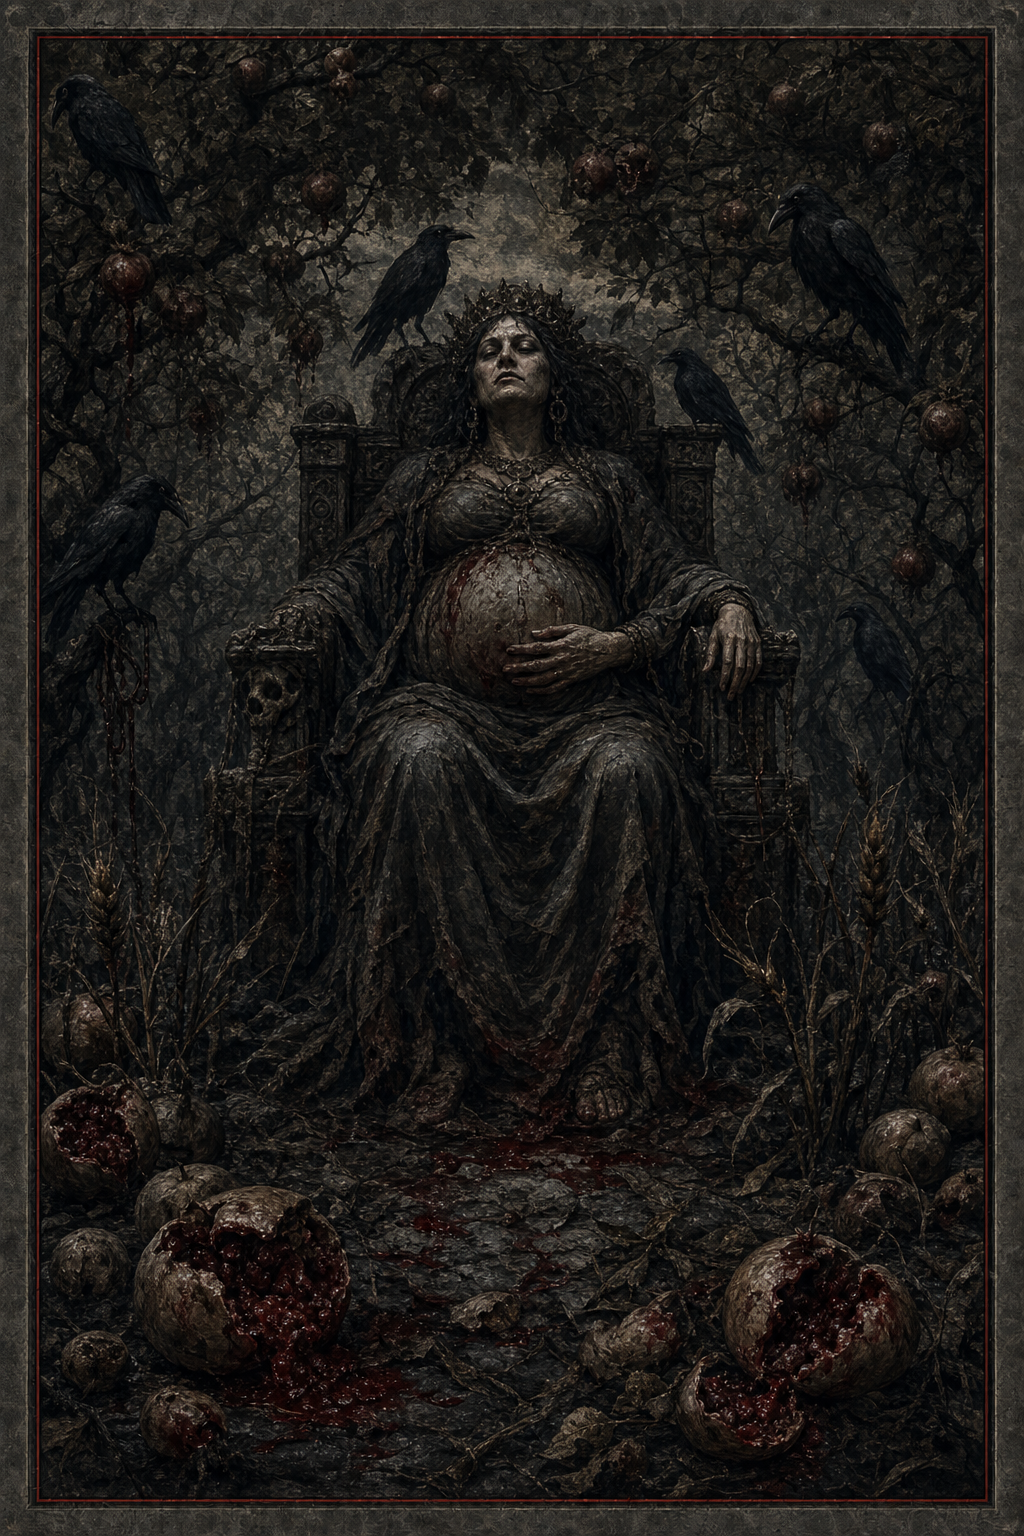
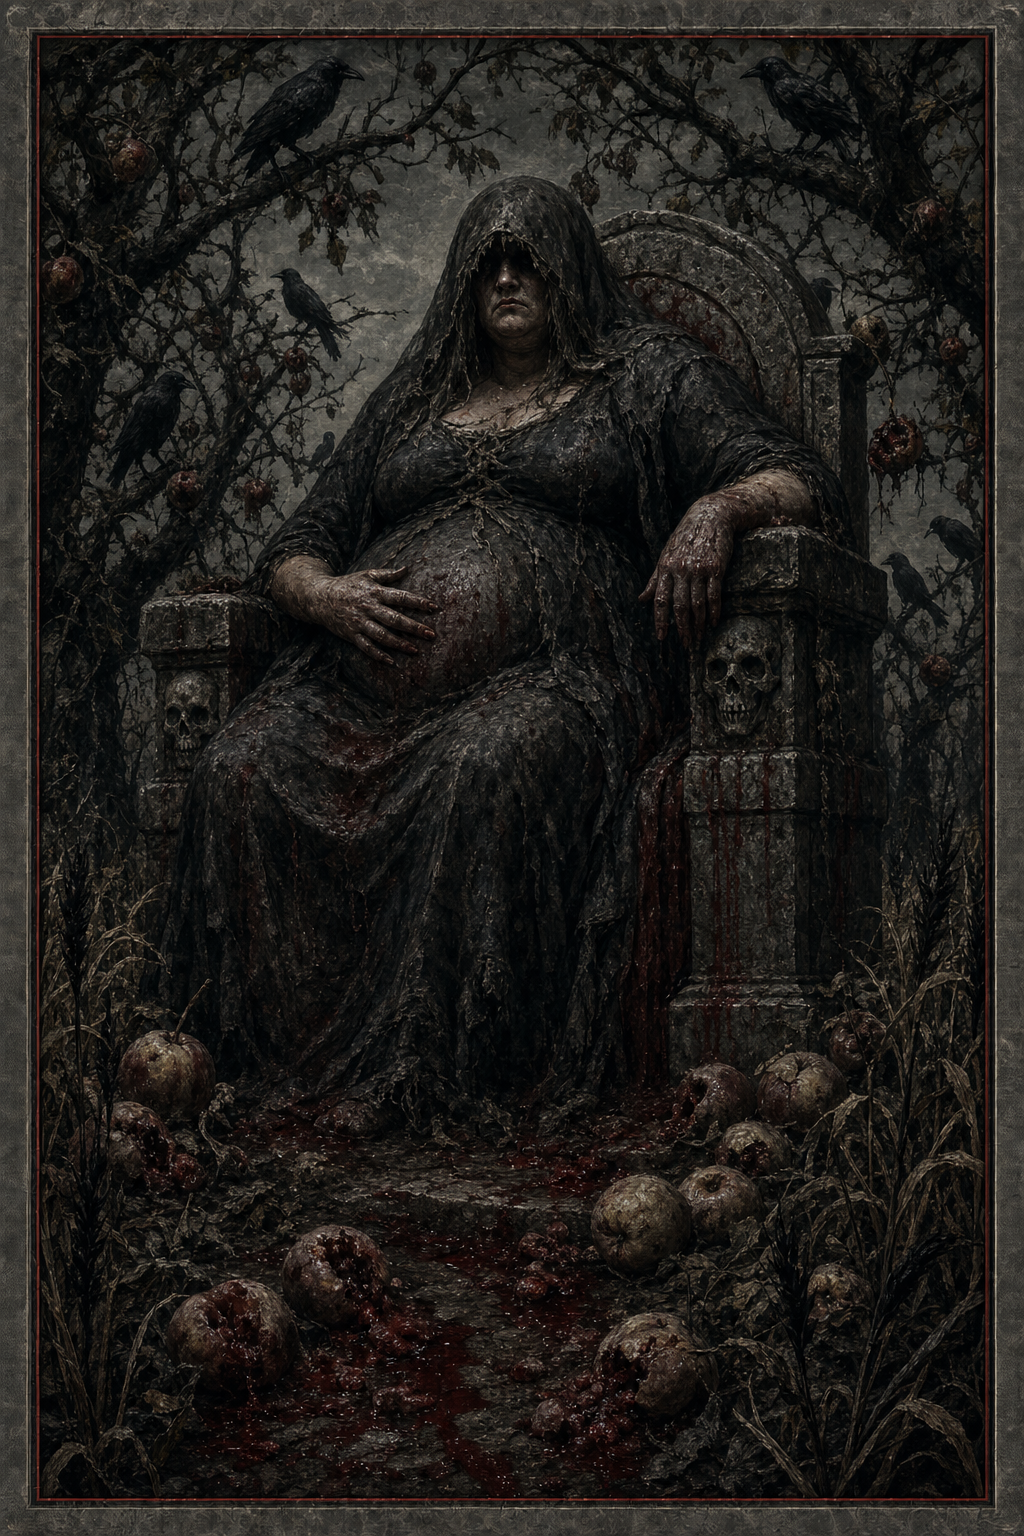
Take the gold ring off the cards, and give The Empress her right arm back
TWO THINGS THE ART MADE TRUE THAT THE CHROME HAD NOT CAUGHT UP WITH.

1. `--card-face-border` WAS FULL-STRENGTH GOLD, #c9a227, AND IT WAS A SECOND
   BORDER. The regenerated deck paints its own frame -- tarnished pewter, ~4% of
   the card's width, 22-25% luminance against a canvas at ~4% -- so the card
   defines its own edge and the gold ring sat on top of it. On the darkest cards
   (The Moon, The Hanged Man) it was the brightest thing on screen: the art losing
   to the UI.

   Replaced with `--card-edge: rgba(198,188,170,0.17)`, keyed to the artwork's own
   pewter rather than to gold. Removing it outright very nearly won and was
   rejected for one measured reason: without any border the rounded corners of the
   two darkest cards dissolve into the page. Six variants were rendered side by
   side at 90px before choosing -- two gold opacities, nothing, nothing plus a
   heavier shadow, an ambient warm halo, and this.

   AND THE SHADOW IDEA DOES NOT WORK, WHICH IS WORTH KNOWING BEFORE SOMEONE TRIES
   IT AGAIN. A black shadow on a #0a0812 canvas is very nearly invisible;
   doubling it was indistinguishable from having none. So the shadow was never
   what separated a card from the page and a 48px spread was paying for reach it
   never delivered. Tightened to 0 8px 24px, which reads only on the bright cards
   where there is luminance to subtract from.

   THE BETTER HALF OF THIS WAS A SIDE EFFECT. `Slots.module.css` keeps its gold
[…]

diff --git a/src/components/CardFace.module.css b/src/components/CardFace.module.css
@@ -14,14 +14,35 @@
   position: absolute;
   inset: 0;
   border-radius: var(--radius-card);
-  border: 1px solid var(--card-face-border);
+  /*
+   * A near-invisible seam, NOT the gold ring this used to be. The artwork paints
+   * its own frame now (tarnished pewter, ~4% of the card's width, at 22-25%
+   * luminance against a canvas at ~4%), so the card defines its own edge and the
+   * old `--card-face-border: #c9a227` was a second border on top of the first --
+   * on the darkest cards it was the brightest thing on screen.
+   *
+   * Removing it outright was the other candidate and it very nearly won. This
+   * keeps 1px because The Moon and The Hanged Man lose their rounded corners into
+   * the page without it. Compared against no border, a heavier shadow, a warm
+   * halo and two gold opacities before choosing; see tokens.ts.
+   */
+  border: 1px solid var(--card-edge);
   /* Was here to hide the padding bars on cards whose trimmed art was narrower
      than 2:3 -- 44px per side on the old cards 0-10. The regenerated deck is
      full-bleed and has none, and check_card_art.py fails a card that does, but
      this stays as the backstop for the one-pixel rounding case. It costs
      nothing. */
   background: #0f0b1c;
-  box-shadow: 0 22px 48px rgba(0, 0, 0, 0.6);
+  /*
+   * Tightened from `0 22px 48px rgba(0,0,0,.6)`. MEASURED, not tidied: a black
+   * shadow on a `--canvas` of #0a0812 is very nearly invisible, and doubling it
+   * was indistinguishable from having none at all in a side-by-side. So it cannot
+   * be what separates a card from the page -- the artwork's own frame is -- and a
+   * 48px spread was paying for reach it never delivered. What is left reads only
+   * on the brighter cards (The Sun, The Hermit), which is where there is any
+   * luminance for it to subtract from.
+   */
+  box-shadow: 0 8px 24px rgba(0, 0, 0, 0.8);
   overflow: hidden;
   backface-visibility: hidden;
 

diff --git a/src/theme/tokens.ts b/src/theme/tokens.ts
@@ -26,7 +26,29 @@ export const color = {
   cardBack: ['#1d1636', '#291f4a', '#17112b'] as const,
   cardBackBorder: '#4a3d72',
   cardFace: ['#fbf4e2', '#f1e6cb'] as const,
-  cardFaceBorder: '#c9a227',
+
+  /**
+   * The edge of a face-up card. REPLACES `cardFaceBorder: '#c9a227'`, which was
+   * full-strength gold.
+   *
+   * That gold was the only thing separating a card from the near-black canvas
+   * back when the artwork was three inconsistent generations. The regenerated
+   * deck carries its own painted frame at 22-25% luminance against a canvas at
+   * ~4%, so the card defines its own edge and a gold ring on top of it was a
+   * SECOND border competing with the first -- on the darkest cards it became the
+   * brightest thing in the cell, which is the art losing to the chrome.
+   *
+   * Keyed to the artwork's pewter rather than to gold, and at an opacity that
+   * reads as the outermost millimetre of the painting instead of as app chrome.
+   * Its whole job is keeping the rounded corners crisp on The Moon and The Hanged
+   * Man, which go soft with no border at all.
+   *
+   * GOLD NOW MEANS EXACTLY ONE THING ON THE DRAW SCREEN: "a card goes here."
+   * `Slots.module.css` keeps `--gold-hairline` on the EMPTY box, so the empty and
+   * filled states stopped sharing a signal. That was a side effect of an
+   * aesthetic fix and it is the better half of it.
+   */
+  cardEdge: 'rgba(198,188,170,0.17)',
 
   /** Translucent golds, used for hairlines, chips and button fills. */
   goldHairline: 'rgba(201,162,39,0.22)',

diff --git a/src/data/deck.ts b/src/data/deck.ts
@@ -21,8 +21,11 @@ export const CARDS = raw as Card[];
  * v1 -> v2: the deck regenerated by `/generate-tarot-card`. Full bleed (the old
  * cards 0-10 lost 11% of their width to black bars), one consistent frame
  * treatment, and NO TEXT -- `CardFace` draws the name now.
+ * v2 -> v3: The Empress redrawn. She had two arms on her left and none on her
+ * right. ONE CARD CHANGING IS ENOUGH TO BUMP THIS -- the filename did not change,
+ * so without it every existing install keeps the three-armed one for a year.
  */
-const ART_VERSION = 2;
+const ART_VERSION = 3;
 
 /**
  * Full-size card art, 800x1200. For the result panel, where the card is large

diff --git a/src/theme/tokens.css b/src/theme/tokens.css
@@ -39,7 +39,11 @@
   --card-back-border: #4a3d72;
   --card-face-1: #fbf4e2;
   --card-face-2: #f1e6cb;
-  --card-face-border: #c9a227;
+  /* Mirrors `cardEdge` in tokens.ts, which carries the reasoning. Replaces
+     `--card-face-border: #c9a227` -- full gold, which competed with the frame the
+     regenerated artwork paints for itself. Gold on the draw screen now means only
+     "a card goes here" (the empty slot), never "a card is here". */
+  --card-edge: rgba(198, 188, 170, 0.17);
 
   /* --- Translucent golds: hairlines, chips, button fills ----------------- */
   --gold-hairline: rgba(201, 162, 39, 0.22);

diff --git a/.claude/skills/generate-tarot-card/style.md b/.claude/skills/generate-tarot-card/style.md
@@ -96,6 +96,27 @@ way at 90px, keep the vulnerability the cards are about, and generate. Do not
 "restore" the nudity: it does not fail loudly, it fails as a refused request and
 a card that never appears.
 
+**ACCOUNT FOR EVERY LIMB, BUT DESCRIBE A POSE -- NEVER COUNT BODY PARTS.** The
+Empress shipped with two arms on the same side: a hand on the armrest and a hand
+on the belly, both emerging from her left, her right arm absent entirely. The
+scene line said only `one hand on a swollen belly` and never accounted for the
+other, so the model put it wherever it liked. Anatomy is the most common way these
+images fail, and it is invisible at 90px -- it survived a review that checked text,
+composition and blood.
+
+THE FIRST FIX FOR IT WAS REFUSED TWICE, WHICH IS THE REAL LESSON. `her left
+forearm laid along the armrest and her right hand resting on a swollen belly --
+one arm to each side of her body, both shoulders visible` is anatomical
+enumeration, and next to a swollen belly and bleeding fruit the classifier reads
+it as body horror. A `--note` saying `no third arm, no duplicated hand` was
+refused for the same reason. Counting limbs, naming sides, and listing shoulders
+all trip it.
+
+What works is ordinary pose language: **`one forearm laid along the armrest, the
+other hand resting on a swollen belly`.** `one ... the other` fixes the placement
+and implies exactly two without ever enumerating anything. Same rule as the style
+block: say what the picture IS.
+
 **AND WATCH WHAT THE VERB ATTACHES TO.** The World read `a figure suspended
 inside a wreath ... the wreath bound at four points with red cord` and was
 refused: `suspended` plus `bound at four points` describes a person being
@@ -118,7 +139,7 @@ sixteen cards at v2, which is the mixed deck the version stamp exists to catch.
 - 00_fool: A barefoot youth mid-stride off a crumbling clifftop, arms loose, face turned up to the sky, not seeing the drop. Far below, a scree slope of bones with a thin red rill threading through it. A small pale dog howling at the lip behind him. Wide, vertiginous, looking down past him into the fall.
 - 01_magician: A gaunt figure at a stone slab in a windowless cellar, one arm raised, the other pointing at the floor. On the slab: a knife, a chipped cup brimming dark red, a bent coin, a snapped staff. Blood tracks along a channel cut into the stone and drips off the near edge. Close, cramped, single guttering light.
 - 02_high_priestess: A veiled seated figure between two black pillars at the mouth of a flooded crypt, water to her ankles, a crescent at her feet. Dark red spreads from beneath her hem across the still surface in slow threads. Frontal, symmetrical, drowned and silent.
-- 03_empress: A heavy enthroned woman in a rotting orchard, one hand on a swollen belly. Overripe fruit split open on the ground bleeding pulp, wheat blackened at the tips, crows crowding the branches. Tight, oppressive, low green-grey light with the canopy pressing down.
+- 03_empress: A heavy woman seated on a stone throne in a rotting orchard, one forearm laid along the armrest, the other hand resting on a swollen belly. Overripe fruit split open on the ground bleeding pulp, wheat blackened at the tips, crows crowding the branches. Tight, oppressive, low green-grey light with the canopy pressing down.
 - 04_emperor: A mailed ruler on a throne built from interlocked blades and rib bones, ram skulls at the arms. Seen steeply from below so he fills the frame. A dark stain worked deep into the stone step at his feet. Monumental, frontal, grey daylight from high behind.
 - 05_hierophant: A masked celebrant high on a pulpit in a vast stone nave, hands raised over a basin of dark red. Two tonsured acolytes kneel far below him in a shallow spreading pool. Extreme vertical, cavernous, ranks of candles receding into dark.
 - 06_lovers: Two figures in thin pale shifts standing back to back, wrists bound behind them with red cord drawn tight. A vast winged shape above, its face lost in shadow. A serpent at the woman's ankle. Nocturnal garden gone entirely to thorn. Mid-shot, cold moonlight.

diff --git a/.claude/skills/generate-tarot-card/SKILL.md b/.claude/skills/generate-tarot-card/SKILL.md
@@ -65,6 +65,15 @@ one mountain-and-lake backdrop, and no number above detects that. Judge:
   drip, rill. A wound is both off-brief and the thing that gets refused.
 - **Is it grave, or is it lurid?** Unflinching about a cruel world is the deck.
   Enjoying it is not, and this app has a self-harm crisis path one screen away.
+- **COUNT THE LIMBS.** Arms, hands, fingers, legs, and the same for any animal.
+  Trace each arm from shoulder to hand and check it belongs to the side it came
+  from. The Empress shipped with two arms on her left and none on her right, and
+  it got through a review that checked everything else -- anatomy is the most
+  common failure of these models and the easiest to miss at thumbnail size. Zoom
+  in on the figure; do not judge it from the contact sheet. **Fix it with pose
+  language, never by counting** -- `one forearm on the armrest, the other hand on
+  her belly` generates; `one arm to each side, both shoulders visible` and a note
+  saying `no third arm` were both refused as body horror. style.md has the detail.
 - **Is it actually good?**
 
 **6. Revise, up to three attempts total.** Pass one instruction via `--note`,
